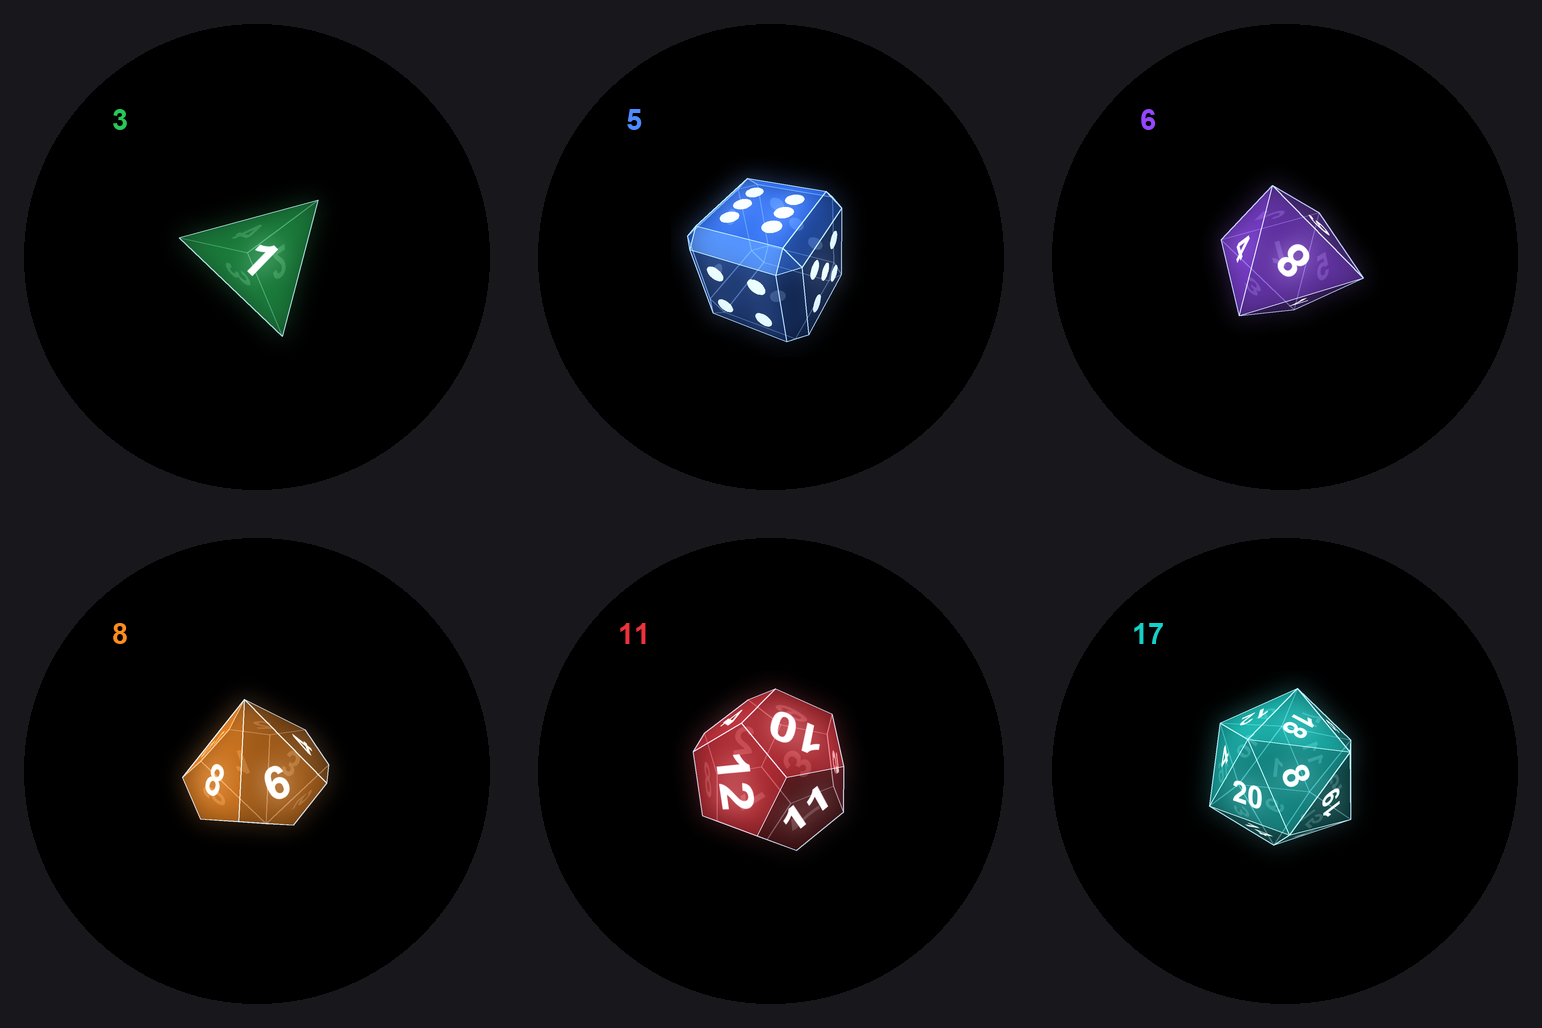
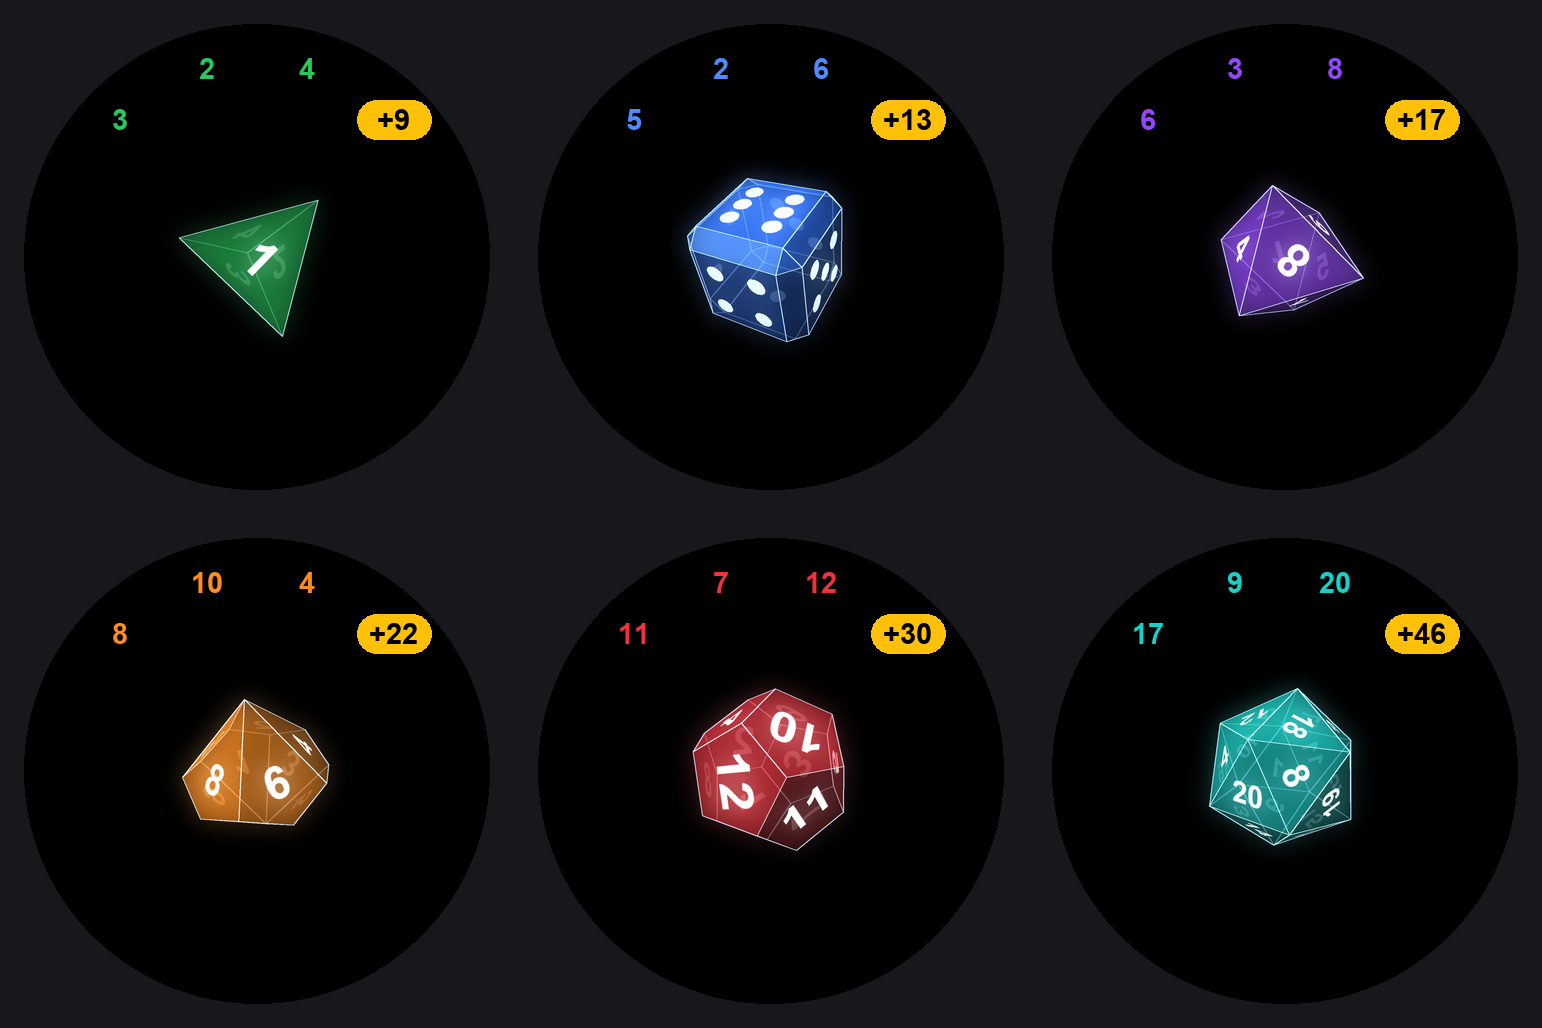
docs

diff --git a/scripts/render_screenshots.py b/scripts/render_screenshots.py
@@ -1,7 +1,7 @@
 """Render README preview images from the animation frames (no watch or simulator needed).
 
 Usage (from high-roller/): python3 scripts/render_screenshots.py
-Requires: Pillow. Writes to docs/images/.
+Requires: Pillow. Writes to docs/images/ (and 360x360 versions to docs/images/demo/).
 """
 import math
 from pathlib import Path
@@ -12,6 +12,8 @@ ROOT = Path(__file__).resolve().parent.parent
 FRAMES = ROOT / "assets" / "gt.r" / "anim"
 OUT = ROOT / "docs" / "images"
 SCREEN = 466  # Amazfit GTR 4
+DEMO_SIZE = 360
+ICON_SIZE = 240
 SCALE = SCREEN / 480  # px() in the app
 DICE = ["d4", "d6", "d8", "d10", "d12", "d20"]
 COLORS = {
@@ -59,12 +61,12 @@ def round_mask(img):
     return out
 
 
-def watch_screen(die, die_x_offset=0, extra=None, rolls=()):
+def watch_screen(die, die_x_offset=0, extra=None, rolls=(), index=5):
     """Compose one watch screen: die in the centre, rolls around the edge."""
     img = Image.new("RGB", (SCREEN, SCREEN), (0, 0, 0))
     d = ImageDraw.Draw(img)
     top = (SCREEN - 200) // 2
-    img.paste(frame(die, 5), ((SCREEN - 200) // 2 + die_x_offset, top))
+    img.paste(frame(die, index), ((SCREEN - 200) // 2 + die_x_offset, top))
     if extra:
         name, x = extra
         img.paste(frame(name, 5), (x, top))
@@ -93,11 +95,18 @@ def main():
     on_dark(watch_screen("d20", rolls=rolls)).save(OUT / "rolls.png")
 
     # Mid-swipe: the D6 is leaving left while the D8 scrolls in from the right.
-    on_dark(watch_screen("d6", die_x_offset=-120, extra=("d8", 240))).save(OUT / "swipe.png")
+    on_dark(watch_screen("d6", die_x_offset=-120, extra=("d8", 240), rolls=rolls[:3])).save(OUT / "swipe.png")
 
     # One screen per die.
-    sample = {"d4": 3, "d6": 5, "d8": 6, "d10": 8, "d12": 11, "d20": 17}
-    shots = [on_dark(watch_screen(die, rolls=[(sample[die], die)])) for die in DICE]
+    sample = {
+        "d4": [(3, "d4"), (2, "d4"), (4, "d4")],
+        "d6": [(5, "d6"), (2, "d6"), (6, "d6")],
+        "d8": [(6, "d8"), (3, "d8"), (8, "d8")],
+        "d10": [(8, "d10"), (10, "d10"), (4, "d10")],
+        "d12": [(11, "d12"), (7, "d12"), (12, "d12")],
+        "d20": [(17, "d20"), (9, "d20"), (20, "d20")],
+    }
+    shots = [on_dark(watch_screen(die, rolls=sample[die])) for die in DICE]
     w, h = shots[0].size
     sheet = Image.new("RGB", (w * 3, h * 2), (24, 24, 28))
     for i, shot in enumerate(shots):
@@ -108,6 +117,25 @@ def main():
     spin = [frame("d20", i).convert("P", palette=Image.ADAPTIVE, colors=128) for i in range(24)]
     spin[0].save(OUT / "d20-spin.gif", save_all=True, append_images=spin[1:], duration=round(1000 / 17), loop=0)
     print("wrote", ", ".join(p.name for p in sorted(OUT.iterdir())))
+
+    demo = OUT / "demo"
+    demo.mkdir(exist_ok=True)
+    to_demo = lambda img: on_dark(img).resize((DEMO_SIZE, DEMO_SIZE), Image.LANCZOS)
+    to_demo(watch_screen("d20", rolls=rolls)).save(demo / "rolls.png")
+    to_demo(watch_screen("d6", die_x_offset=-120, extra=("d8", 240), rolls=rolls[:3])).save(demo / "swipe.png")
+    for die in DICE:
+        to_demo(watch_screen(die, rolls=sample[die])).save(demo / f"{die}.png")
+    spin = [
+        to_demo(watch_screen("d20", rolls=rolls, index=i)).convert("P", palette=Image.ADAPTIVE, colors=128)
+        for i in range(24)
+    ]
+    spin[0].save(demo / "d20-spin.gif", save_all=True, append_images=spin[1:], duration=round(1000 / 17), loop=0)
+    print("wrote", len(list(demo.iterdir())), "demo images")
+
+    icon_dir = ROOT / "docs" / "app-icon"
+    icon_dir.mkdir(exist_ok=True)
+    icon = Image.open(ROOT / "assets" / "gt.r" / "icon.png").convert("RGBA")
+    icon.resize((ICON_SIZE, ICON_SIZE), Image.LANCZOS).save(icon_dir / "app-icon.png", optimize=True)
 
 
 if __name__ == "__main__":
